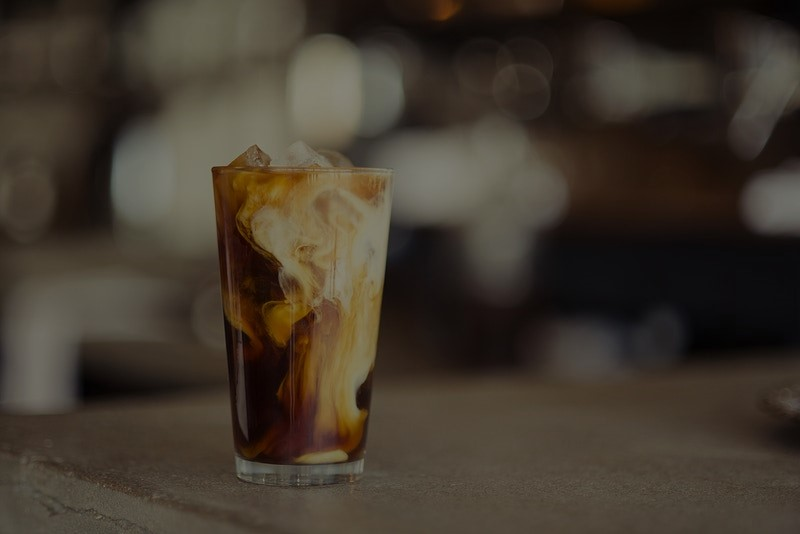
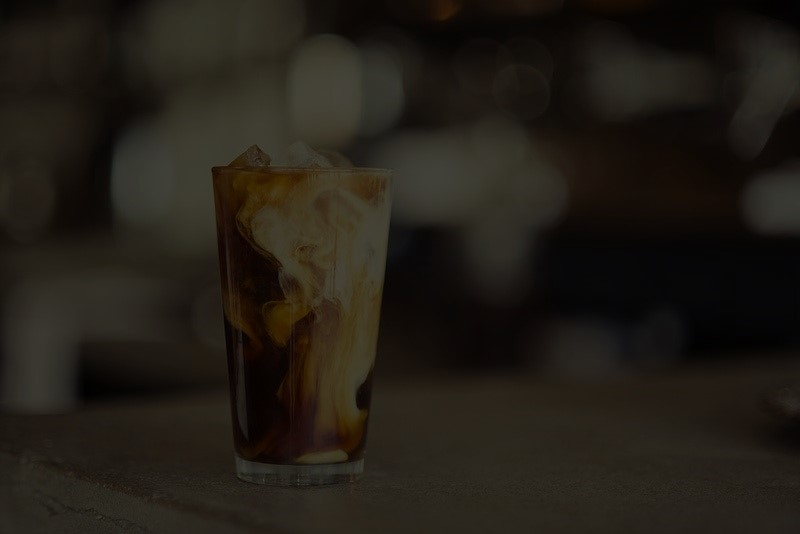
...

diff --git a/roma_pizza/style.css b/roma_pizza/style.css
@@ -191,7 +191,7 @@ input[type=text]:hover{
   padding: 15px 25px;
   box-sizing: border-box;
   cursor: pointer;
-  background-color: black;
+  background-image: url('img/drinks_blur.jpg');
   background-position: center;
   background-size: cover;
   font-size: 180%;
